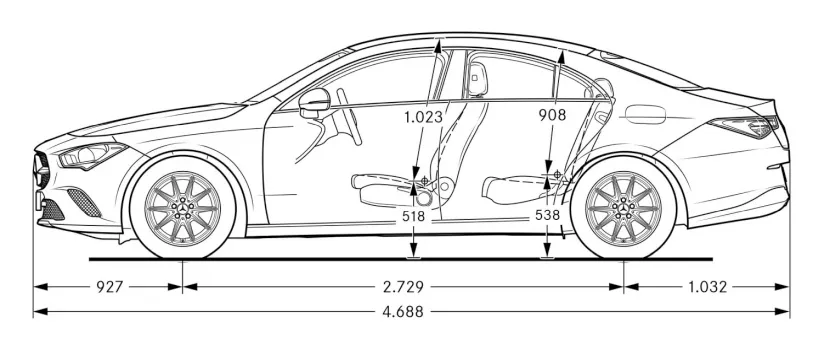
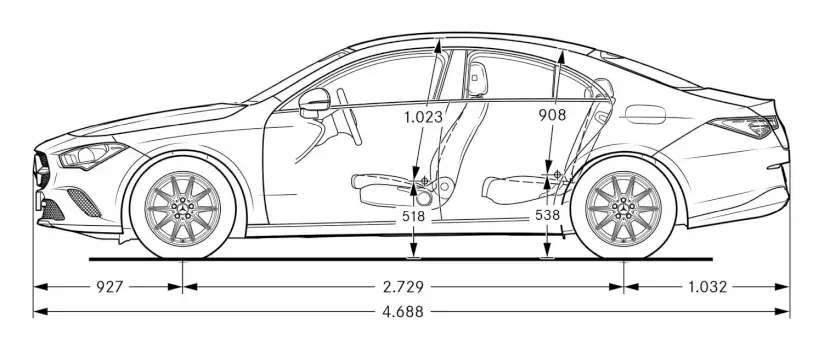
246

diff --git a/pic/ja_mb_img_cla.html b/pic/ja_mb_img_cla.html
@@ -423,9 +423,9 @@
 						<a href="full/cla/x118_ir2.jpg"><img loading="lazy" src="style/cla/x118_ir2.webp" alt="Mercedes,C118,CLA,内装" width="602" height="402"></a><br>
 						<h5 id="c118a">ボディサイズ</h5>
 						<a href="full/cla/c118_a1.jpg"><img loading="lazy" src="style/cla/c118_a1.webp" alt="メルセデス,C118,CLA,寸法" width="384" height="340"></a>
-						<a href="full/cla/c118_a2.jpg"><img loading="lazy" src="style/cla/c118_a2.webp" alt="メルセデス,C118,CLA,寸法" width="823" height="340"></a><br>
+						<a href="full/cla/c118_a2.jpg"><img loading="lazy" src="style/cla/c118_a2.webp" alt="メルセデス,C118,CLA,寸法" width="821" height="340"></a><br>
 						<a href="full/cla/x118_a1.jpg"><img loading="lazy" src="style/cla/x118_a1.webp" alt="メルセデス,X118,CLA,寸法" width="384" height="340"></a>
-						<a href="full/cla/x118_a2.jpg"><img loading="lazy" src="style/cla/x118_a2.webp" alt="メルセデス,X118,CLA,寸法" width="823" height="340"></a>
+						<a href="full/cla/x118_a2.jpg"><img loading="lazy" src="style/cla/x118_a2.webp" alt="メルセデス,X118,CLA,寸法" width="821" height="340"></a>
 					</section>
 				</div>
 				<div class="vmenu_off">

diff --git a/pic/en_mb_img_cla.html b/pic/en_mb_img_cla.html
@@ -423,9 +423,9 @@
 						<a href="full/cla/x118_ir2.jpg"><img loading="lazy" src="style/cla/x118_ir2.webp" alt="Mercedes,C118,CLA,Interior" width="602" height="402"></a><br>
 						<h5>Dimensions</h5>
 						<a href="full/cla/c118_a1.jpg"><img loading="lazy" src="style/cla/c118_a1.webp" alt="Mercedes,C118,CLA,Dimensions" width="384" height="340"></a>
-						<a href="full/cla/c118_a2.jpg"><img loading="lazy" src="style/cla/c118_a2.webp" alt="Mercedes,C118,CLA,Dimensions" width="823" height="340"></a><br>
+						<a href="full/cla/c118_a2.jpg"><img loading="lazy" src="style/cla/c118_a2.webp" alt="Mercedes,C118,CLA,Dimensions" width="821" height="340"></a><br>
 						<a href="full/cla/x118_a1.jpg"><img loading="lazy" src="style/cla/x118_a1.webp" alt="Mercedes,X118,CLA,Dimensions" width="384" height="340"></a>
-						<a href="full/cla/x118_a2.jpg"><img loading="lazy" src="style/cla/x118_a2.webp" alt="Mercedes,X118,CLA,Dimensions" width="823" height="340"></a>
+						<a href="full/cla/x118_a2.jpg"><img loading="lazy" src="style/cla/x118_a2.webp" alt="Mercedes,X118,CLA,Dimensions" width="821" height="340"></a>
 					</section>
 				</div>
 				<div class="vmenu_off">

diff --git a/pic/mb_img_cla.html b/pic/mb_img_cla.html
@@ -423,9 +423,9 @@
 						<a href="full/cla/x118_ir2.jpg"><img loading="lazy" src="style/cla/x118_ir2.webp" alt="Mercedes,C118,CLA,Innenansicht" width="602" height="402"></a><br>
 						<h5>Abmessungen</h5>
 						<a href="full/cla/c118_a1.jpg"><img loading="lazy" src="style/cla/c118_a1.webp" alt="Mercedes,C118,CLA,Maße" width="384" height="340"></a>
-						<a href="full/cla/c118_a2.jpg"><img loading="lazy" src="style/cla/c118_a2.webp" alt="Mercedes,C118,CLA,Maße" width="823" height="340"></a><br>
+						<a href="full/cla/c118_a2.jpg"><img loading="lazy" src="style/cla/c118_a2.webp" alt="Mercedes,C118,CLA,Maße" width="821" height="340"></a><br>
 						<a href="full/cla/x118_a1.jpg"><img loading="lazy" src="style/cla/x118_a1.webp" alt="Mercedes,X118,CLA,Maße" width="384" height="340"></a>
-						<a href="full/cla/x118_a2.jpg"><img loading="lazy" src="style/cla/x118_a2.webp" alt="Mercedes,X118,CLA,Maße" width="823" height="340"></a>
+						<a href="full/cla/x118_a2.jpg"><img loading="lazy" src="style/cla/x118_a2.webp" alt="Mercedes,X118,CLA,Maße" width="821" height="340"></a>
 					</section>
 				</div>
 				<div class="vmenu_off">
